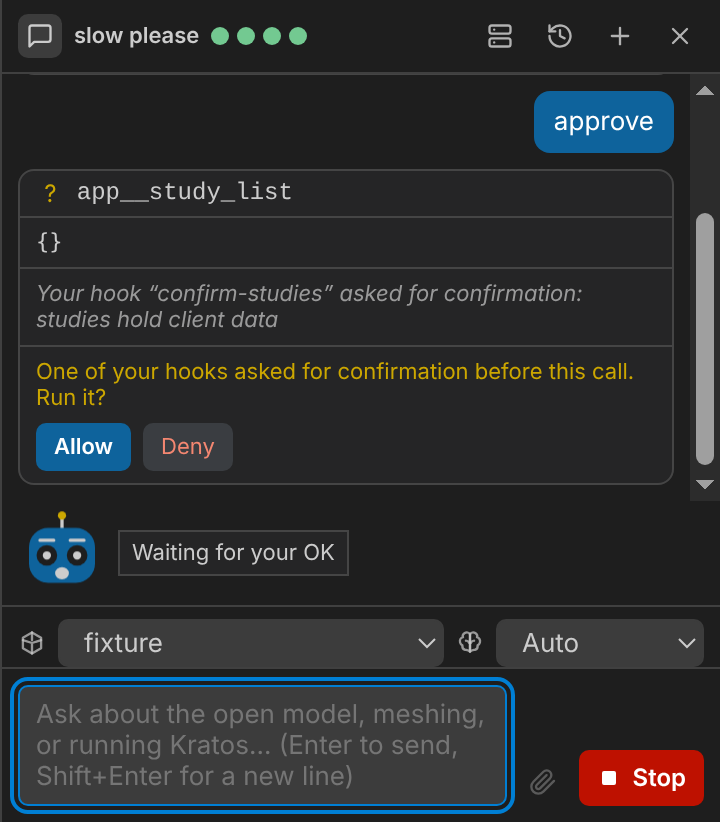
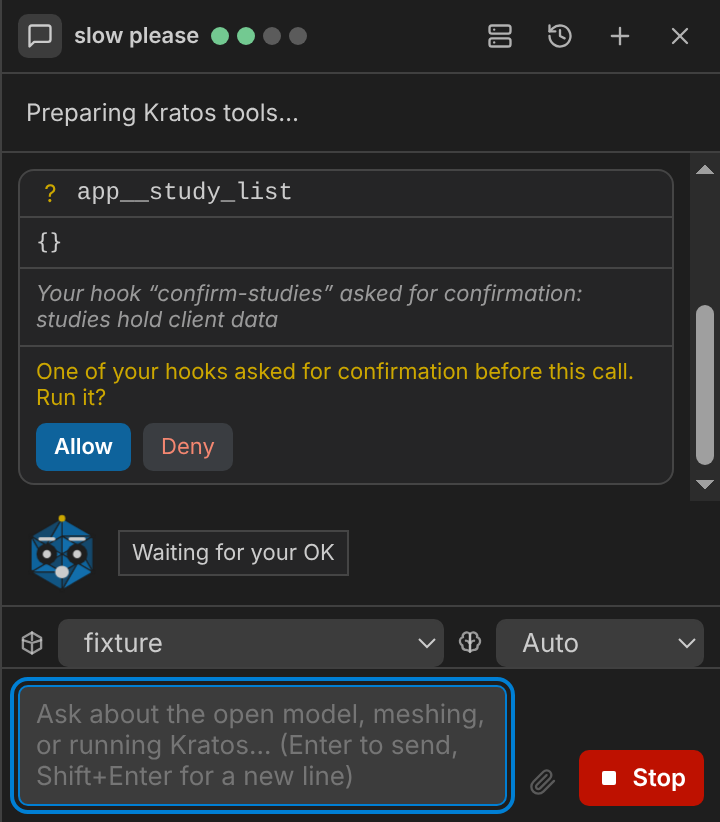
feat: Kraty as a triangulated hexagonal mesh head
Claude-Session: https://claude.ai/code/session_01RsDEZqnXUMQa7xFqQx1wZi

diff --git a/app/renderer/chat/kraty.ts b/app/renderer/chat/kraty.ts
@@ -10,8 +10,27 @@ import type { KratyEvent, KratySignals, KratyState } from "./kratyCore";
 const SVG = `
 <svg viewBox="0 0 64 64" width="44" height="44" aria-hidden="true" focusable="false">
   <g class="k-body">
-    <line class="k-stroke" x1="32" y1="6" x2="32" y2="14" /><circle class="k-tip" cx="32" cy="5" r="3" />
-    <rect class="k-head" x="8" y="14" width="48" height="40" rx="14" />
+    <g class="k-mesh">
+      <polygon class="k-facet k-f0" points="32.0,8.0 54.5,21.0 32.0,21.0" />
+      <polygon class="k-facet k-f1" points="54.5,21.0 43.3,27.5 32.0,21.0" />
+      <polygon class="k-facet k-f2" points="32.0,34.0 32.0,21.0 43.3,27.5" />
+      <polygon class="k-facet k-f3" points="54.5,21.0 54.5,47.0 43.3,27.5" />
+      <polygon class="k-facet k-f0" points="54.5,47.0 43.3,40.5 43.3,27.5" />
+      <polygon class="k-facet k-f1" points="32.0,34.0 43.3,27.5 43.3,40.5" />
+      <polygon class="k-facet k-f2" points="54.5,47.0 32.0,60.0 43.3,40.5" />
+      <polygon class="k-facet k-f3" points="32.0,60.0 32.0,47.0 43.3,40.5" />
+      <polygon class="k-facet k-f0" points="32.0,34.0 43.3,40.5 32.0,47.0" />
+      <polygon class="k-facet k-f1" points="32.0,60.0 9.5,47.0 32.0,47.0" />
+      <polygon class="k-facet k-f2" points="9.5,47.0 20.7,40.5 32.0,47.0" />
+      <polygon class="k-facet k-f3" points="32.0,34.0 32.0,47.0 20.7,40.5" />
+      <polygon class="k-facet k-f0" points="9.5,47.0 9.5,21.0 20.7,40.5" />
+      <polygon class="k-facet k-f1" points="9.5,21.0 20.7,27.5 20.7,40.5" />
+      <polygon class="k-facet k-f2" points="32.0,34.0 20.7,40.5 20.7,27.5" />
+      <polygon class="k-facet k-f3" points="9.5,21.0 32.0,8.0 20.7,27.5" />
+      <polygon class="k-facet k-f0" points="32.0,8.0 32.0,21.0 20.7,27.5" />
+      <polygon class="k-facet k-f1" points="32.0,34.0 20.7,27.5 32.0,21.0" />
+      <circle class="k-node" cx="54.5" cy="21.0" r="1.6" /><circle class="k-node" cx="54.5" cy="47.0" r="1.6" /><circle class="k-node" cx="32.0" cy="60.0" r="1.6" /><circle class="k-node" cx="9.5" cy="47.0" r="1.6" /><circle class="k-node" cx="9.5" cy="21.0" r="1.6" /><circle class="k-tip" cx="32.0" cy="8.0" r="2.4" />
+    </g>
     <g class="k-brows">
       <g class="k-brow-flat"><line class="k-stroke" x1="16" y1="26" x2="26" y2="26" /><line class="k-stroke" x1="38" y1="26" x2="48" y2="26" /></g>
       <g class="k-brow-raised"><line class="k-stroke" x1="16" y1="23" x2="26" y2="23" /><line class="k-stroke" x1="38" y1="23" x2="48" y2="23" /></g>

diff --git a/app/renderer/chat/chat.css b/app/renderer/chat/chat.css
@@ -779,7 +779,12 @@ body {
 }
 .kraty-bubble[hidden] { display: none; }
 
-#kraty .k-head { fill: var(--vscode-button-background); }
+#kraty .k-facet { fill: var(--vscode-button-background); stroke: var(--vscode-editor-background); stroke-width: 0.8; stroke-linejoin: round; }
+#kraty .k-f0 { fill-opacity: 1; }
+#kraty .k-f1 { fill-opacity: 0.8; }
+#kraty .k-f2 { fill: var(--vscode-button-hoverBackground); fill-opacity: 0.9; }
+#kraty .k-f3 { fill-opacity: 0.62; }
+#kraty .k-node { fill: var(--vscode-editor-background); }
 #kraty .k-tip { fill: var(--vscode-charts-yellow); }
 #kraty .k-white { fill: var(--vscode-editor-background); }
 #kraty .k-pupil { fill: var(--vscode-foreground); }

diff --git a/doc/guide/getting-started.md b/doc/guide/getting-started.md
@@ -228,7 +228,7 @@ These tool-result images live for as long as the app is running. They are not wr
 
 ### Kraty
 
-Turn on **Settings ▸ LLM Assistant ▸ Kraty** to show a small animated face above the message box. It is off by default and never opens, focuses, sounds or pops up by itself. Its expression only mirrors what the sidebar already shows: *thinking* while the model has not started writing, *writing* while text streams in, *running a tool* while a tool call has no result yet, *waiting for your OK* while an approval prompt is open, *done* briefly when a turn ends, and a worried face after an error. The speech bubble uses fixed interface strings, never text from the model or a tool. With reduced motion enabled in the system, the expression still changes but the idle bobbing and blinking stop, and the animation pauses while the sidebar is hidden.
+Turn on **Settings ▸ LLM Assistant ▸ Kraty** to show a small animated face above the message box: a hexagonal head tessellated into triangles, like a finite-element mesh (original artwork, inspired by the Kratos Multiphysics look rather than copying its logo). It is off by default and never opens, focuses, sounds or pops up by itself. Its expression only mirrors what the sidebar already shows: *thinking* while the model has not started writing, *writing* while text streams in, *running a tool* while a tool call has no result yet, *waiting for your OK* while an approval prompt is open, *done* briefly when a turn ends, and a worried face after an error. The speech bubble uses fixed interface strings, never text from the model or a tool. With reduced motion enabled in the system, the expression still changes but the idle bobbing and blinking stop, and the animation pauses while the sidebar is hidden.
 
 ![Kraty waiting for approval of a tool call](/screenshots/chat-kraty.png)
 
